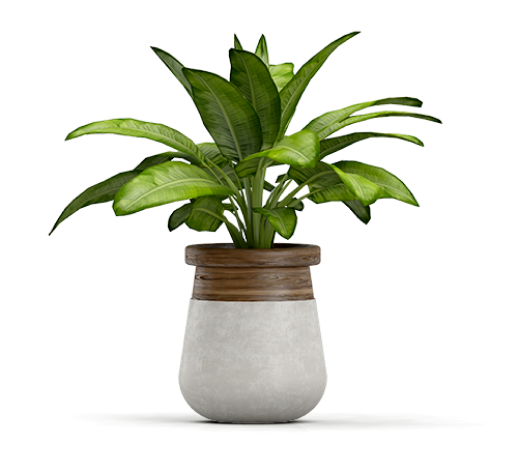
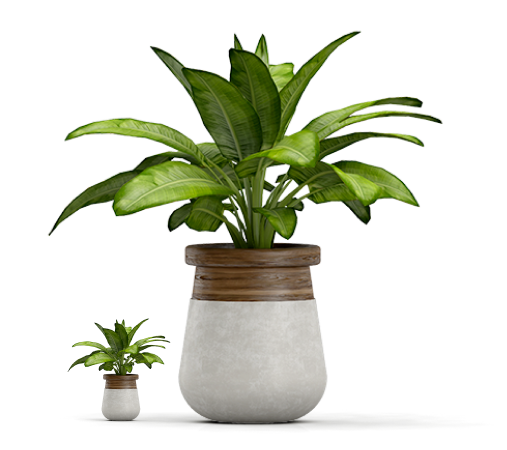
made the teacher's edits and included the fonts

Changed region(s): [[0.1479, 0.7156, 0.3254, 0.9644], [0.1183, 0.8089, 0.1479, 0.84]]

diff --git a/styles/style.css b/styles/style.css
@@ -1,9 +1,35 @@
+@font-face {
+  font-family: "latoregular";
+  src: url("../fonts/lato-regular-webfont.woff2") format("woff2");
+  font-weight: 400;
+  font-style: normal;
+  font-display: swap;
+}
+
+@font-face {
+  font-family: "latobold";
+  src: url("../fonts/lato-bold-webfont.woff2") format("woff2");
+  font-weight: 700;
+  font-style: normal;
+  font-display: swap;
+}
+
+@font-face {
+  font-family: "latoblack";
+  src: url("../fonts/lato-black-webfont.woff2") format("woff2");
+  font-weight: 900;
+  font-style: normal;
+  font-display: swap;
+}
+
 .container {
   max-width: 1200px;
   margin: 0 auto;
 }
+
 body {
-  font-size: 0;
+  font-family: "latoregular";
+  font-weight: 400;
 }
 
 header {
@@ -35,7 +61,7 @@ ul {
 
 .btn {
   display: inline-block;
-  width: 100px;
+  width: 93px;
   height: 35px;
   background: #46a358;
   color: #ffffff;
@@ -66,6 +92,9 @@ ul {
 }
 
 .header-nav a.active {
+  font-family: "latobold";
+  font-weight: 900;
+
   border-bottom: 3px solid;
   border-color: #46a358;
   padding-bottom: 23px;
@@ -75,11 +104,6 @@ ul {
   margin: 0 25px;
   display: inline-block;
   vertical-align: middle;
-}
-
-.active {
-  font-weight: bold;
-  border-color: #46a358;
 }
 
 .hr_header-info {
@@ -104,42 +128,37 @@ div.btn:hover {
 .banner-text {
   vertical-align: top;
   width: 647px;
-  margin-left: 42px;
-  margin-top: 68px;
+  padding-left: 42px;
+  padding-top: 68px;
   color: #3d3d3d;
 }
 .banner-text h6 {
   text-transform: uppercase;
-  font-size: 1em;
+  font-size: 14px;
   margin: 0;
   color: #3d3d3d;
 }
 .banner-text h1 {
-  letter-spacing: 0.084em; /* fonts haven't been connected yet  */
-  text-transform: uppercase; /* fonts haven't been connected yet  */
-  font-size: 3.5em; /* fonts haven't been connected yet  */
+  font-family: "latoblack";
+  font-weight: 900;
+  font-size: 70px;
+  text-transform: uppercase;
   margin: 7px 0 5px 0;
   color: #3d3d3d;
 }
 .banner-text-h1word {
   color: #46a358;
 }
+
 .banner-text p {
+  font-family: "latregular";
+  font-weight: 400;
+  font-size: 16px;
+  letter-spacing: 1px;
   margin: 0;
   color: #3d3d3d;
+  overflow: auto;
 }
 .banner-pic {
   display: inline-block;
-}
-.banner-pic-min {
-  width: 135px;
-  position: absolute;
-  margin-top: 309px;
-  margin-left: 49px;
-  overflow: hidden;
-  transition: all 0.7s ease;
-  cursor: pointer;
-}
-.banner-pic-min:hover {
-  transform: rotate(360deg);
 }

diff --git a/greenshop.html b/greenshop.html
@@ -45,9 +45,8 @@
           </h1>
           <p>
             We are an online plant shop offering a wide range of cheap and
-            trendy plants. Use <br />
-            our plants to create an unique Urban Jungle. Order your favorite
-            plants!
+            trendy plants. Use our plants to create an unique Urban Jungle. 
+            Order your favorite plants!
           </p>
           <div class="btn">
             <a>Shop now</a>
@@ -59,18 +58,8 @@
             src="images/main-img.png"
             alt="main-img"
           />
-          <img
-            class="banner-pic-big"
-            src="images/main-img.png"
-            alt="main-img"
-          />
         </div>
       </section>
-      <div>
-        <div class="baton">
-          <img src="images/logout.svg" alt="button-login" />
-          <a href="#">B</a>
-        </div>
       </div>
     </main>
   </body>
